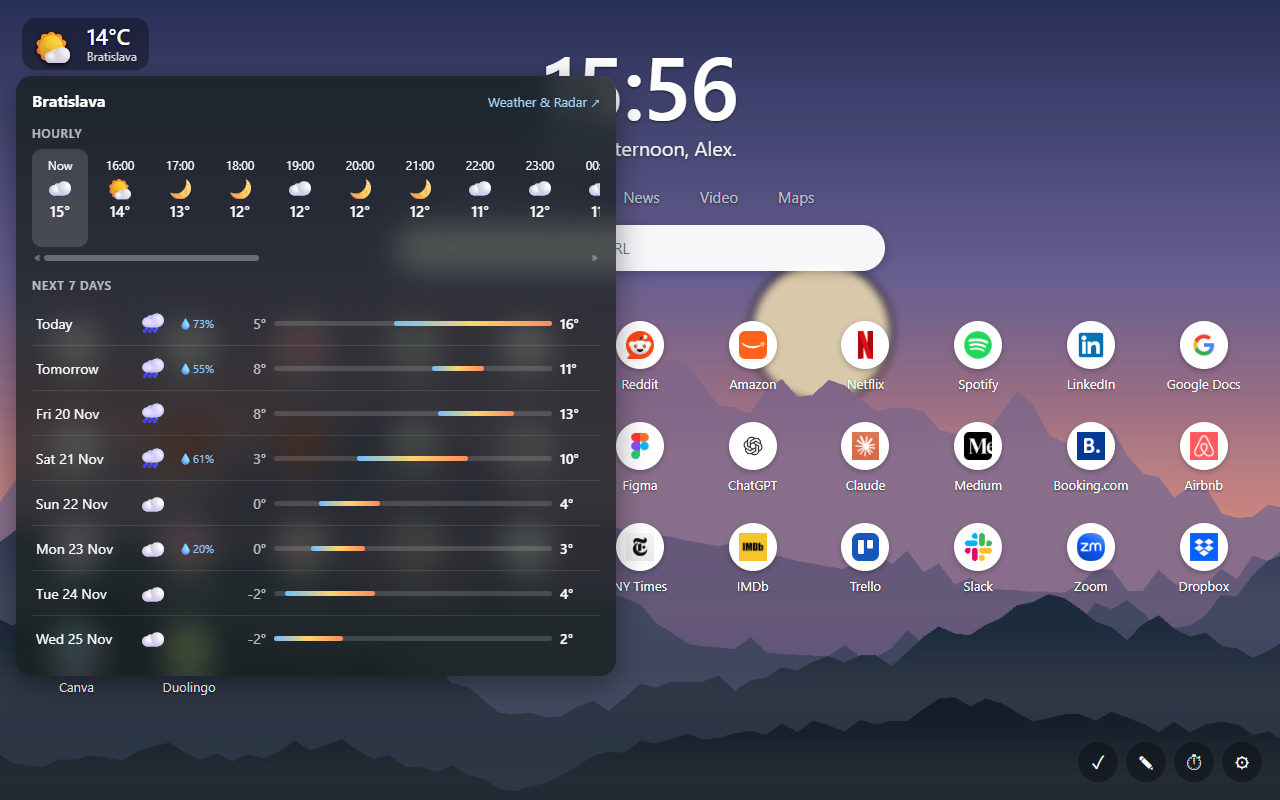
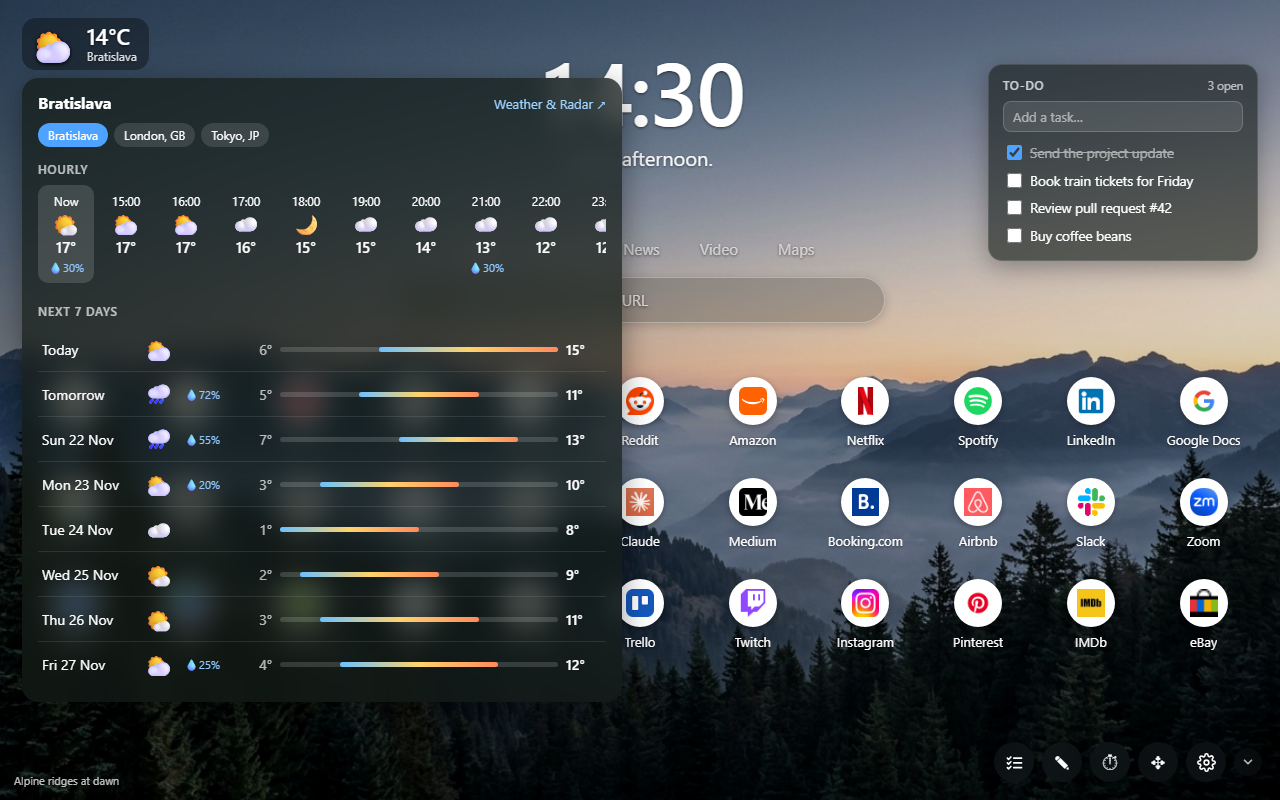
Update Chrome Web Store description and v3.0.0 screenshots

diff --git a/store/store-listing.md b/store/store-listing.md
@@ -30,10 +30,10 @@ Upload `store/new-tab-most-visited-3.0.0.zip`.
 | Asset | File | Size |
 |---|---|---|
 | Store icon | `icons/icon128.png` | 128×128 |
-| Screenshot 1: grid, clock, weather | `screenshot-1-grid.png` | 1280×800 |
-| Screenshot 2: hourly and 7-day forecast | `screenshot-2-forecast.png` | 1280×800 |
-| Screenshot 3: to-do list and focus timer | `screenshot-3-tools.png` | 1280×800 |
-| Screenshot 4: settings | `screenshot-4-settings.png` | 1280×800 |
+| Screenshot 1: default view (grid, clock, transparent search, to-do) | `screenshot-1-grid.png` | 1280×800 |
+| Screenshot 2: multi-city hourly and 7-day forecast | `screenshot-2-forecast.png` | 1280×800 |
+| Screenshot 3: layout editor, world clock and focus timer | `screenshot-3-tools.png` | 1280×800 |
+| Screenshot 4: streamlined settings | `screenshot-4-settings.png` | 1280×800 |
 | Small promo tile | `promo-small-440x280.png` | 440×280 |
 
 **Official URL / homepage:** optional (for example the GitHub repository).
